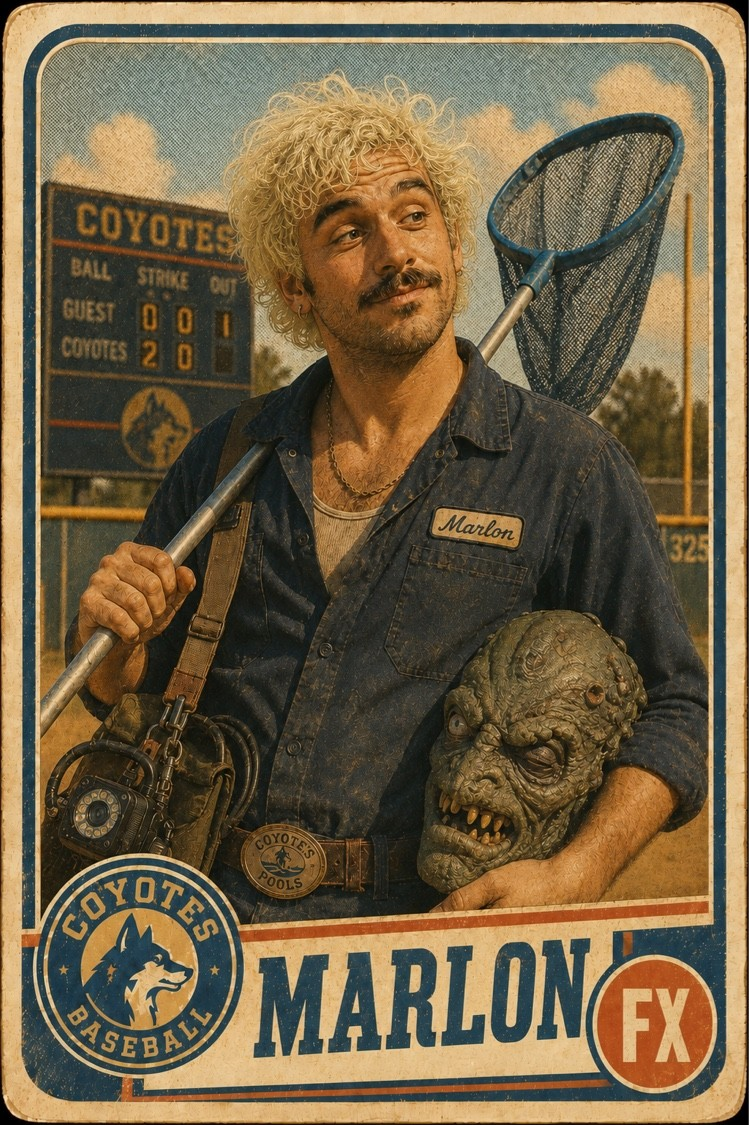
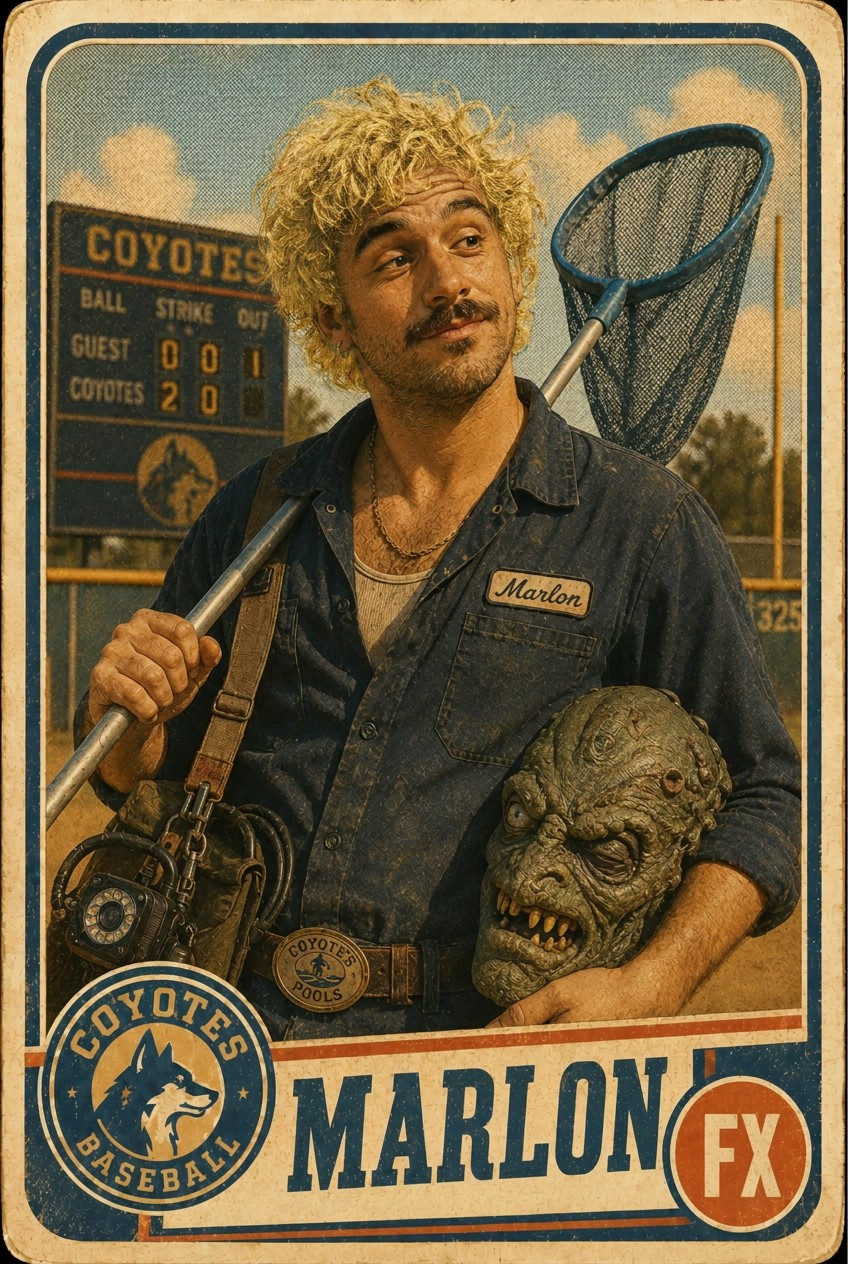
Replace Marlon card with full-res upload (JPEG, cache-busted)

diff --git a/index.html b/index.html
@@ -747,13 +747,13 @@ footer .fine{ font-family:"Special Elite",monospace; font-size:11px; letter-spac
           <p class="body">But our diamond dogs aren't the only ones chasing underground gold. A ruthless treasure hunter by the name of <strong>Viktor Ascher</strong> has been chasing this mythological bounty for years on end &mdash; a slick rascal who's spent half his life bouncing between get-rich-quick schemes, half-baked expeditions, and charming his way out of dark alleys.</p>
           <img class="feat card villain-float left only-desktop" src="art/cards/card-randy.png" alt="Randy" loading="lazy" onerror="this.classList.add('missing');this.textContent=this.alt;this.alt='';">
           <p class="body">And there's no way in hell a pack of twelve-year-olds beats him to the haul of a lifetime. One whiff of Theo's earlier online sleuthing and Ascher was locked onto them right-quick, shadow-tailing them to the sanitarium, and now eying their every move. His muscle is a pair of quintessential Angelenos &mdash; <strong>Randy</strong>, a car valet who's convinced he's a stunt driver, and <strong>Marlon</strong>, a barista with a headshot who method-acts his way through every minute of his life. They're ridiculous, overly caffeinated, and far more dangerous than they look.</p>
-          <img class="feat card villain-float only-desktop" src="art/cards/card-marlon.jpg" alt="Marlon" loading="lazy" onerror="this.classList.add('missing');this.textContent=this.alt;this.alt='';">
+          <img class="feat card villain-float only-desktop" src="art/cards/card-marlon.jpg?v=2" alt="Marlon" loading="lazy" onerror="this.classList.add('missing');this.textContent=this.alt;this.alt='';">
           <p class="body">Soon enough, the Coyotes are back on the hunt &mdash; but this time Ascher and his cronies are breathing down their necks, ready to break necks if that's what it takes to claim the booty for themselves.</p>
         </div>
         <div class="beat-rail fan only-mobile">
           <img class="feat card" src="art/cards/card-randy.png" alt="Randy" loading="lazy" onerror="this.classList.add('missing');this.textContent=this.alt;this.alt='';">
           <img class="feat card" src="art/cards/card-ascher.jpg" alt="Viktor Ascher" loading="lazy" onerror="this.classList.add('missing');this.textContent=this.alt;this.alt='';">
-          <img class="feat card" src="art/cards/card-marlon.jpg" alt="Marlon" loading="lazy" onerror="this.classList.add('missing');this.textContent=this.alt;this.alt='';">
+          <img class="feat card" src="art/cards/card-marlon.jpg?v=2" alt="Marlon" loading="lazy" onerror="this.classList.add('missing');this.textContent=this.alt;this.alt='';">
         </div>
       </div>
       <div class="reveal beat interleaved">
